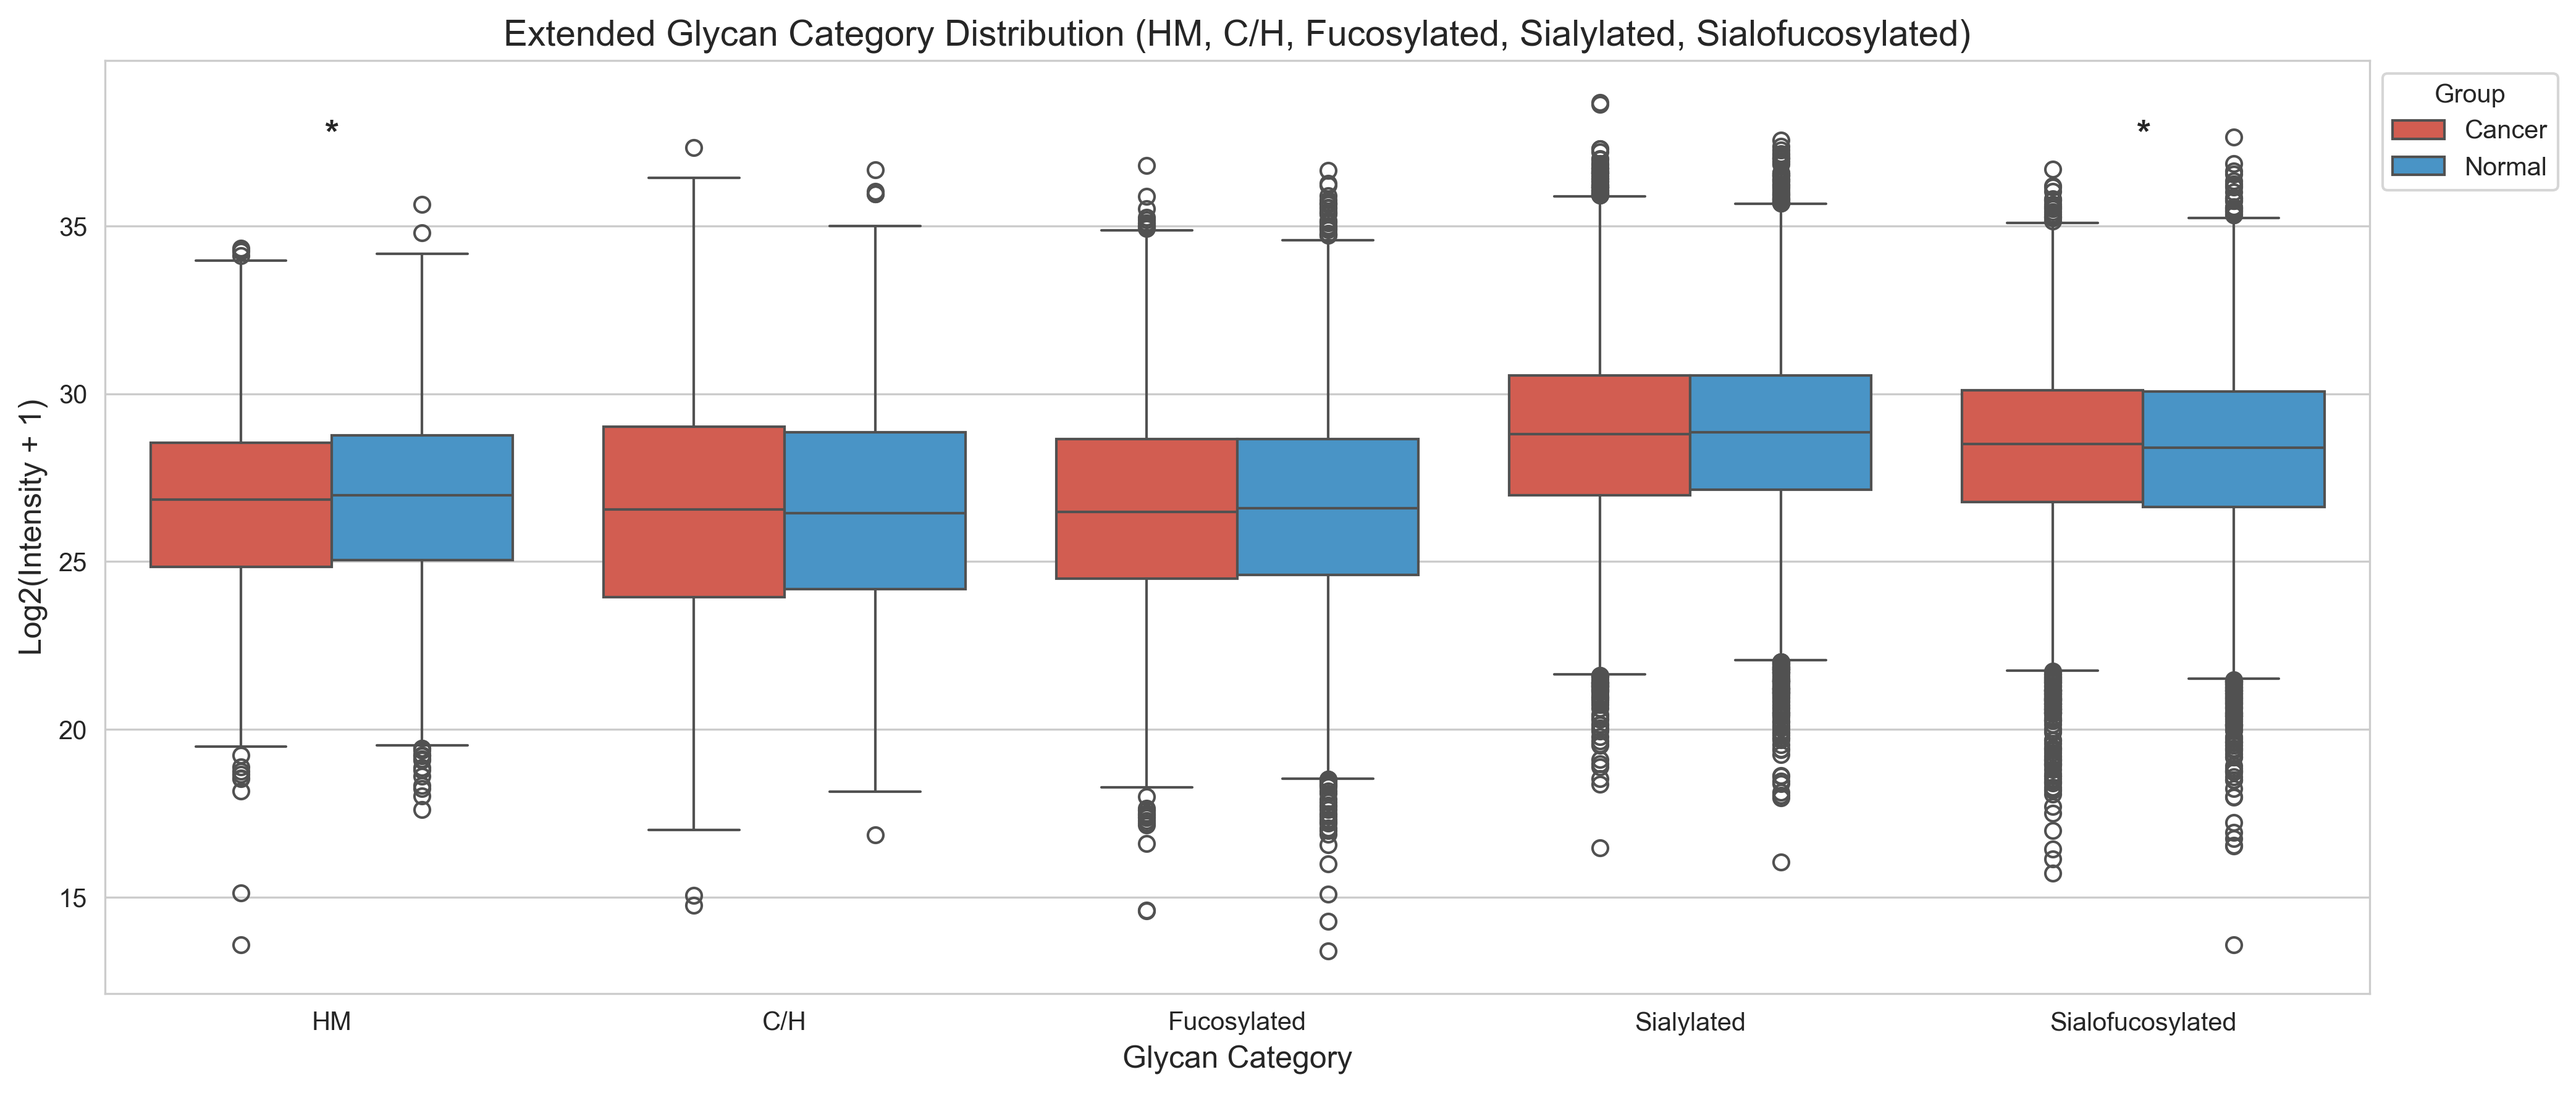
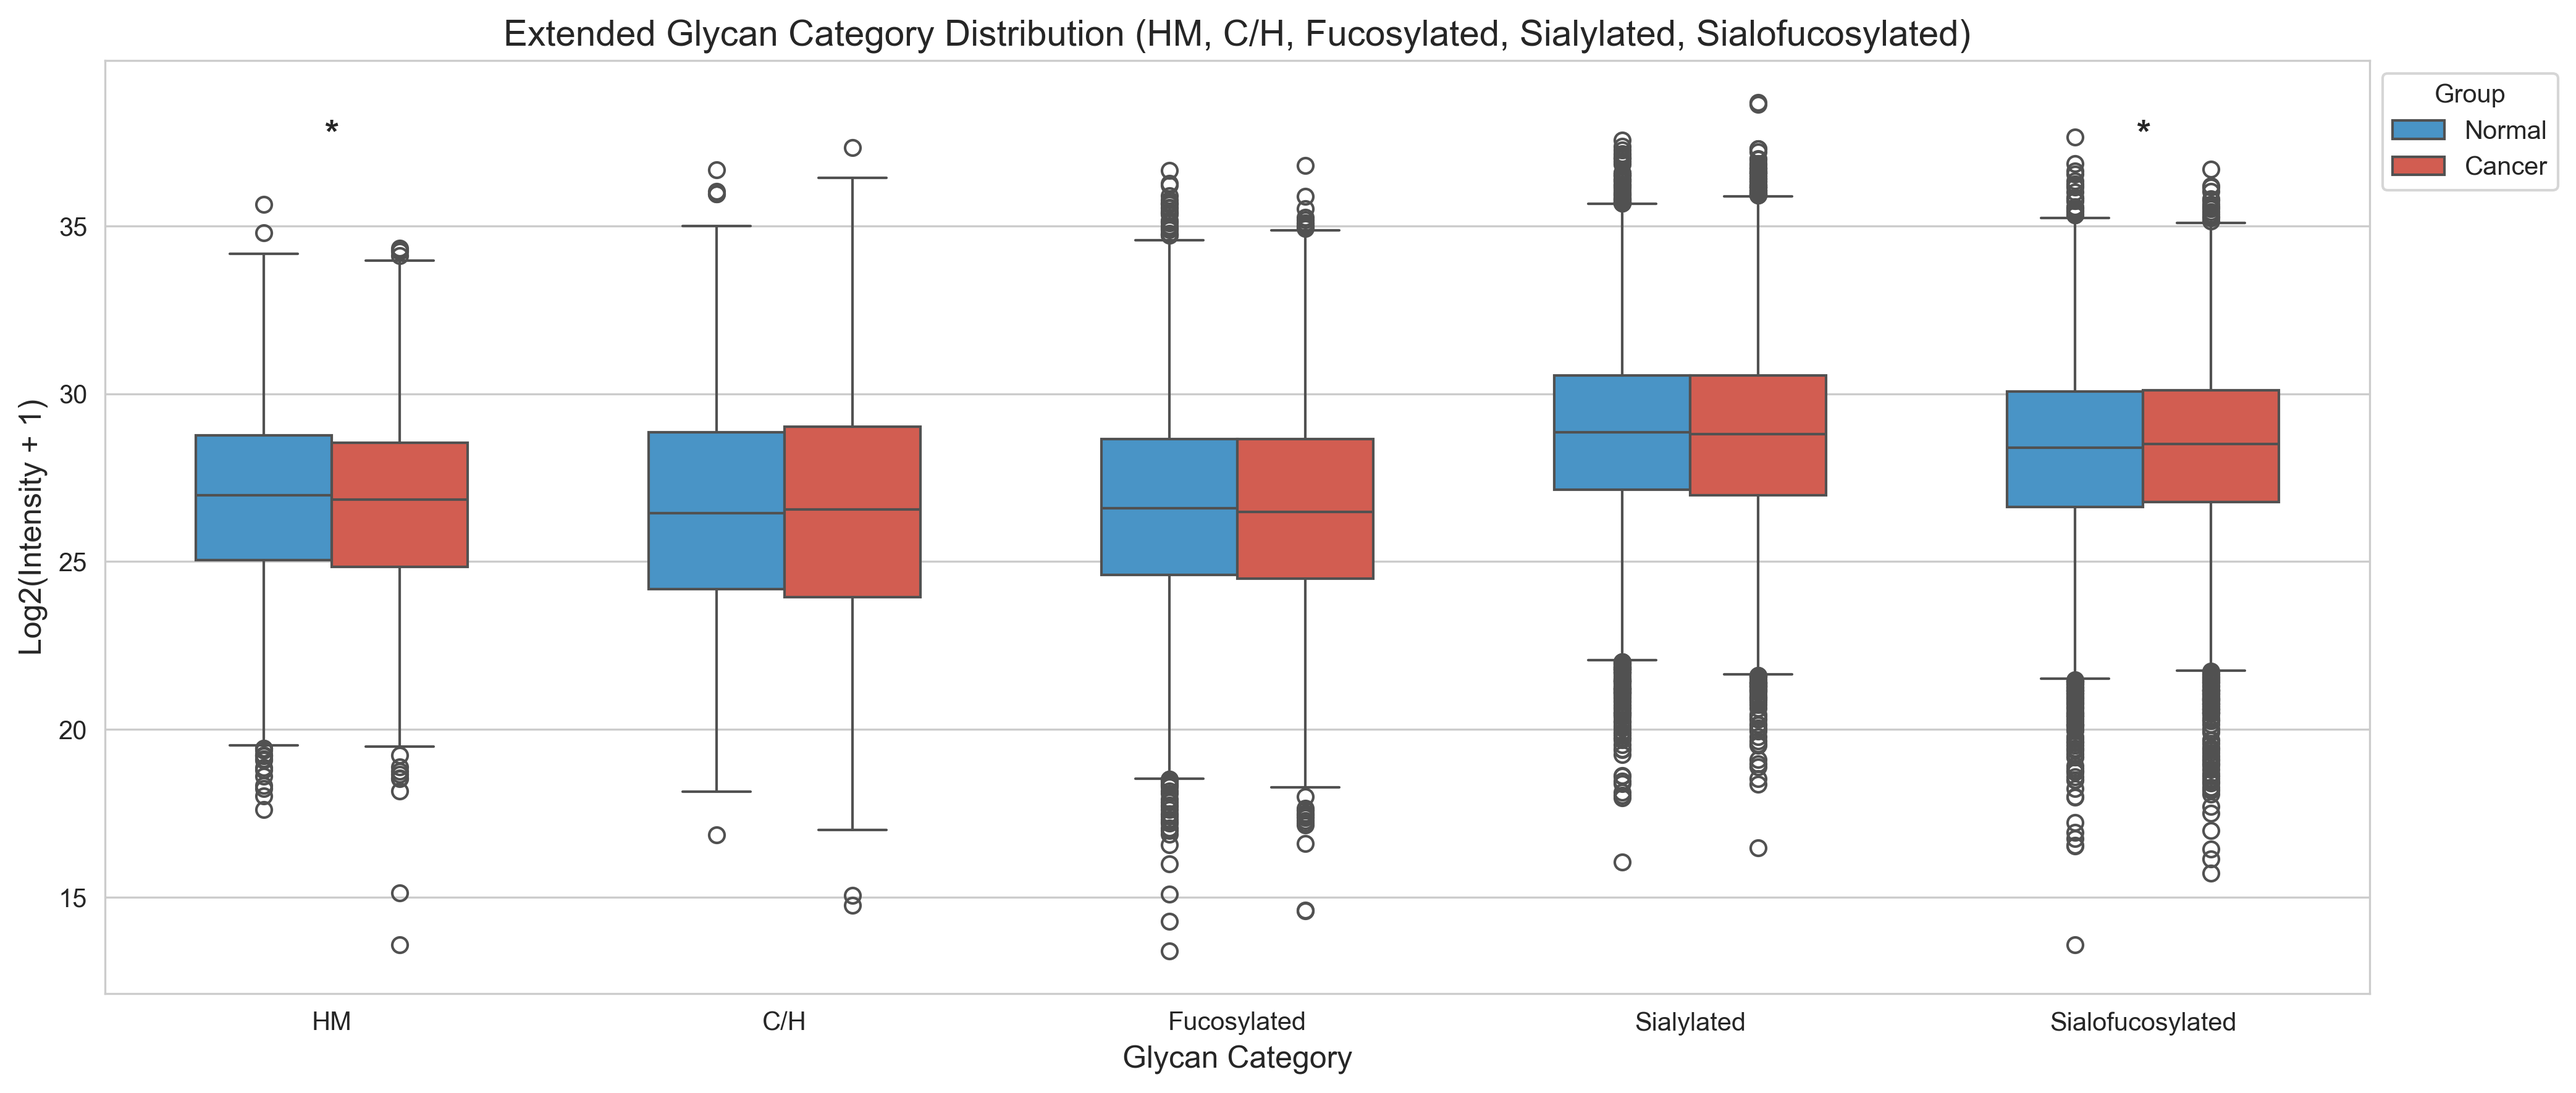
Update(25.10.01)
Box plot appearance arrangement

diff --git a/src/visualizer.py b/src/visualizer.py
@@ -234,7 +234,9 @@ class GlycanVisualizer:
             y='Intensity',
             hue='Group',
             order=existing_types,
+            hue_order=['Normal', 'Cancer'],
             palette={'Cancer': '#E74C3C', 'Normal': '#3498DB'},
+            width=0.6,
             ax=ax
         )
 
@@ -327,7 +329,9 @@ class GlycanVisualizer:
             y='Intensity',
             hue='Group',
             order=existing_categories,
+            hue_order=['Normal', 'Cancer'],
             palette={'Cancer': '#E74C3C', 'Normal': '#3498DB'},
+            width=0.6,
             ax=ax
         )
 
